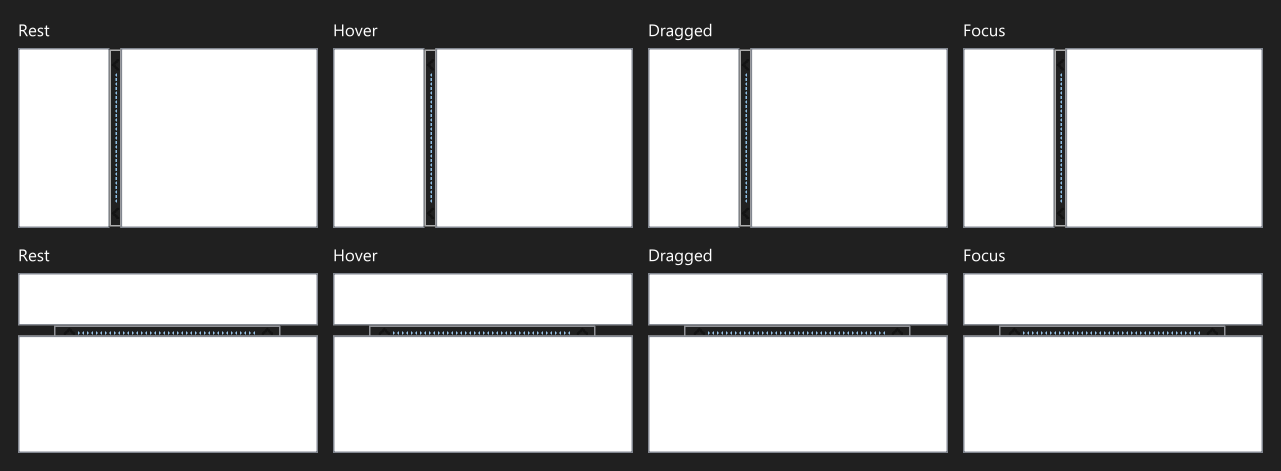
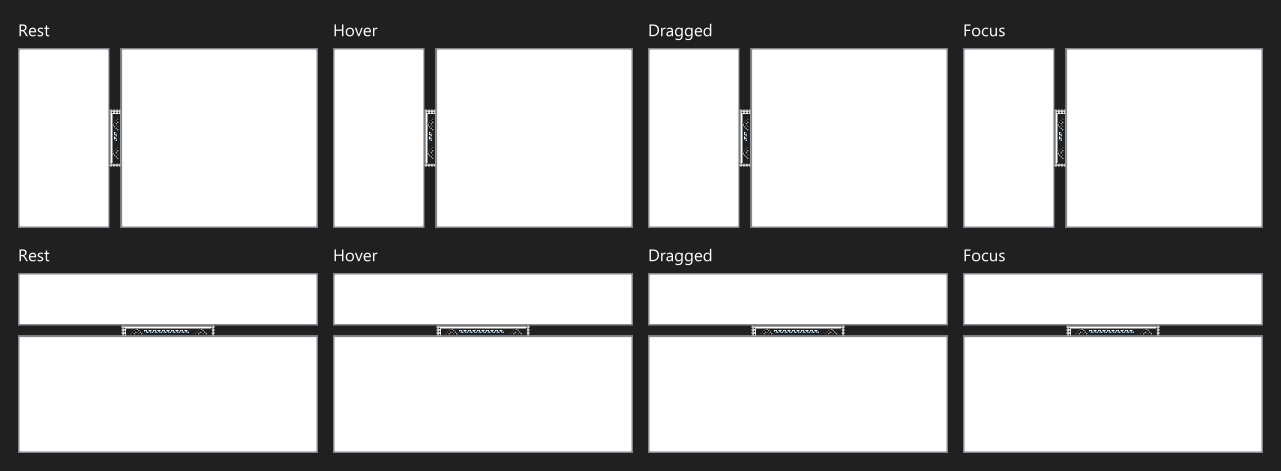
looks: Windows splitter hot zone from the Filter window capture
The 100 percent capture of the Filter window's TcxSplitter gives the whole hot zone pixel by pixel: a
#A0A0A0 frame with #BBBBBB top and foot, a lighter row and a white column inside, a #D5D5D5 shadow row, a
chevron six pixels from each end and #50A0DF dots every three. Its length is 0.3 of the strip plus 2
(463 gives 140, 497 gives 151, 387 gives 118), which also explains the two lengths read off the main
window earlier, and the zone is centred. The new sheet splitter_dialog matches its crop to 9 levels at
most. The live sheet uses the real strip lengths.

diff --git a/scripts/looks_refs_d.py b/scripts/looks_refs_d.py
@@ -153,6 +153,10 @@ SHEETS["page_control_about"] = (1, 120, 24, [
     ("help-about", 8, 31, 120, 24, 0),                  # MTG Studio (chosen), Details
 ])
 
+SHEETS["splitter_dialog"] = (1, 24, 387, [
+    ("search-filter-top", 320, 55, 24, 387, 0),         # the Filter window splitter, 8 wide at x 12
+])
+
 if __name__ == "__main__":
     command, name = sys.argv[1], sys.argv[2]
     if command == "ref":
